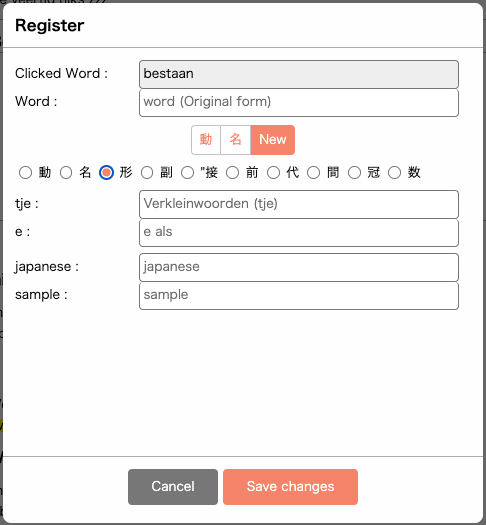
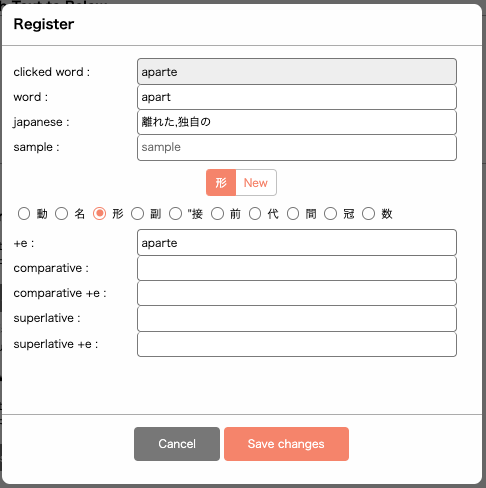
update

diff --git a/readme.md b/readme.md
@@ -37,7 +37,12 @@ golven --> golf
 So I decided to create my own Dutch-Japanese Word book online for myself.
 
 
-## How to use Demo
+## Demo
+
+https://kanekawa.dev/wb_demo/
+
+
+## Use Demo in local
 ```
 git clone git@github.com:m-kanekawa/word_book.git
 cd word_book
@@ -48,7 +53,7 @@ http://localhost:10089/
 
 
 
-## Add Word Book into your website
+## Add "Word Book" into your website
 
 1. Create token and save it into "\<input type="hidden">" and SESSION['word_book_session_key'].
 ```php
@@ -113,6 +118,10 @@ if (!isset($_SESSION['word_book_session_key'])) {
 | past_ik	| verb | past tense (ik) | 
 | past_we	| verb | past tense (we) | 
 | e	      | adjective | form for adjective end with e  | 
+| er	    | adjective | comparative  | 
+| ere     | adjective | comparative end with e  | 
+| st	    | adjective | superlative  | 
+| ste	    | adjective | superlative end with e  | 
 | de_het	| noun | de / het | 
 | pl	    | noun | plural | 
 | tje	    | noun | diminutive | 
